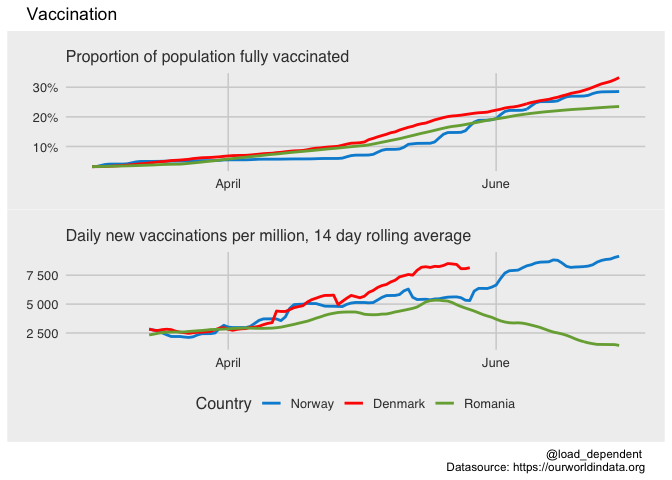
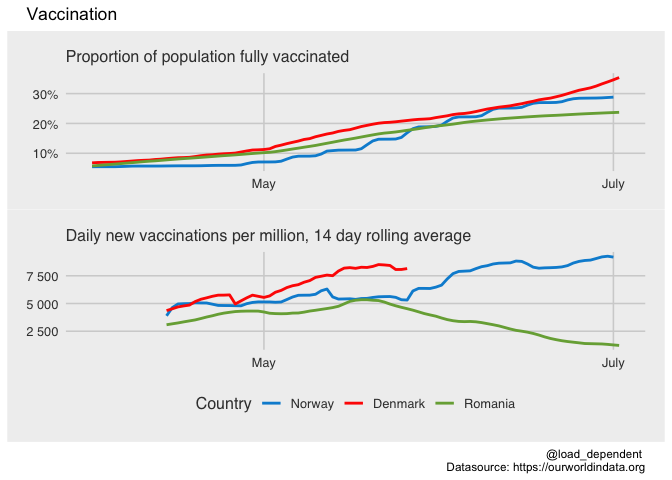
update 4.7.21

diff --git a/README.md b/README.md
@@ -2,7 +2,7 @@ OWID COVID-19 data visualisation
 ================
 Lars Mølgaard Saxhaug <https://twitter.com/load_dependent>
 
-Last compiled on Thursday 01 July, 2021
+Last compiled on Sunday 04 July, 2021
 
 #### Countries of interest:
 
@@ -10,7 +10,7 @@ Norway, Denmark, Romania
 
 #### Date range of interest
 
-From Monday 01 March, 2021 to Thursday 01 July, 2021
+From Thursday 01 April, 2021 to Sunday 04 July, 2021
 
 #### Adjusted deaths
 
